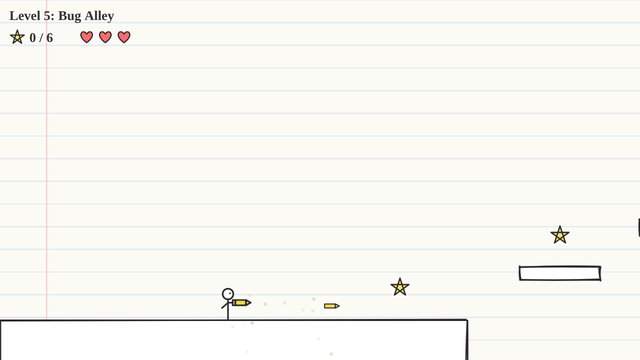
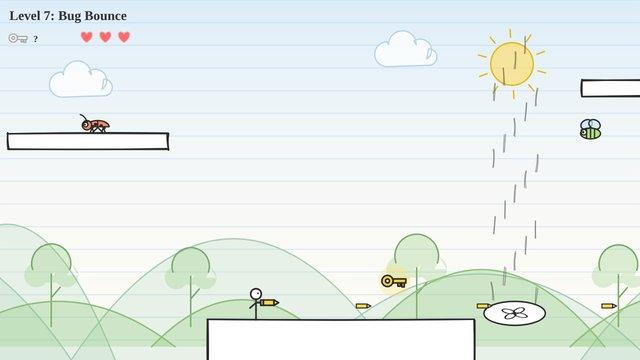
Paper Adventure: backgrounds and a champion trophy
Colored-pencil scenery behind every level: day (1-10), sunset (11-20)
and night (21-30); hills and trees on normal levels, gears, light bulbs
and ? + doodles on brain levels, castle towers on boss levels. Beating
level 30 awards an animated PAPER CHAMPION trophy (paperAdventureTrophy)
that stays on the title screen. New lobby picture. Felix's request.

Claude-Session: https://claude.ai/code/session_012zsgkSRcXWt4JzXvCbtwCW

diff --git a/paper-adventure/index.html b/paper-adventure/index.html
@@ -28,6 +28,9 @@ canvas{display:block;position:fixed;inset:0;width:100%;height:100%}
 #ov{position:fixed;inset:0;display:flex;align-items:flex-start;justify-content:center;z-index:5;background:rgba(251,250,245,.82);overflow:auto}
 #ov .card{background:#fff;border:3px solid #333;border-radius:18px 14px 20px 12px;padding:20px 26px;text-align:center;max-width:86vw;box-shadow:4px 5px 0 #333;margin:auto}
 #ov h1{margin:0 0 6px;font-size:28px}
+#ov canvas.trophy{position:static;inset:auto;width:min(210px,45vw,38vh);height:auto;display:block;margin:0 auto -4px}
+#ov canvas.trophy.small{width:56px;display:inline-block;vertical-align:middle;margin:0 6px 0 0}
+#ov .champ{font-weight:bold;font-size:17px;margin:2px 0 4px}
 #ov p{margin:6px 0 12px;font-size:17px;line-height:1.35}
 #ov button{font:inherit;font-size:22px;padding:10px 30px;border:3px solid #333;border-radius:14px 10px 16px 9px;background:#ffd646;cursor:pointer;box-shadow:3px 3px 0 #333}
 #ov .lv{display:flex;flex-wrap:wrap;gap:8px;justify-content:center;margin:4px 0 12px}
@@ -388,17 +391,42 @@ function showOv(title,html,btn,action){ovh.classList.add('hide');ovt.textContent
 ovb.addEventListener('click',()=>{initAudio();ov.classList.add('hide');const a=ovAction;ovAction=null;if(a)a();});
 ovp.addEventListener('click',e=>{const b=e.target.closest('button[data-l]');if(!b||b.disabled)return;ov.classList.add('hide');ovAction=null;startLevel(+b.dataset.l);});
 function levelButtons(){let h='<div class="lv">';LEVELS.forEach((l,i)=>{h+='<button data-l="'+i+'" class="'+(l.boss?'boss':l.brain?'brain':l.weapon?'bug':'')+'"'+((i>maxLevel||!(i===0||(i+1)%5===0||i===cur))?' disabled':'')+'>'+(i+1)+(l.boss?'<br>👑':'')+'</button>';});return h+'</div>';}
+/* ---------- the champion trophy ---------- */
+function drawTrophy(c,f,label){const x=c.getContext('2d'),w=c.width,h=c.height,s=w/220,cx=110,bob=Math.sin(f/14)*4,fill='#f4c430',dark='#c99a06',ink='#2b2b2b';
+  x.setTransform(1,0,0,1,0,0);x.clearRect(0,0,w,h);x.scale(s,s);x.lineCap='round';x.lineJoin='round';
+  const star=(sx,sy,r)=>{x.beginPath();for(let i=0;i<5;i++){const a=-Math.PI/2+i*4*Math.PI/5;i?x.lineTo(sx+Math.cos(a)*r,sy+Math.sin(a)*r):x.moveTo(sx+Math.cos(a)*r,sy+Math.sin(a)*r);}x.closePath();};
+  x.save();x.translate(cx,90+bob);x.rotate(f/120);x.strokeStyle=fill;x.globalAlpha=.55;x.lineWidth=3;
+  for(let i=0;i<12;i++){const a=i*Math.PI/6;x.beginPath();x.moveTo(Math.cos(a)*62,Math.sin(a)*62);x.lineTo(Math.cos(a)*84,Math.sin(a)*84);x.stroke();}x.restore();
+  x.save();x.translate(0,bob);
+  x.lineWidth=7;x.strokeStyle=ink;[-1,1].forEach(d=>{x.beginPath();x.ellipse(cx+d*50,62,16,20,0,0,7);x.stroke();});x.lineWidth=3.5;x.strokeStyle=fill;[-1,1].forEach(d=>{x.beginPath();x.ellipse(cx+d*50,62,16,20,0,0,7);x.stroke();});
+  x.lineWidth=3;x.strokeStyle=ink;x.fillStyle=fill;x.beginPath();x.moveTo(cx-48,34);x.lineTo(cx+48,34);x.quadraticCurveTo(cx+46,104,cx+8,116);x.lineTo(cx-8,116);x.quadraticCurveTo(cx-46,104,cx-48,34);x.closePath();x.fill();
+  x.save();x.clip();x.strokeStyle=dark;x.lineWidth=1.5;for(let k=0;k<10;k++){x.beginPath();x.moveTo(cx+14+k*7,40);x.lineTo(cx+14+k*7-22,116);x.stroke();}x.restore();x.stroke();
+  x.fillStyle=dark;x.beginPath();x.ellipse(cx,34,48,8,0,0,7);x.fill();x.stroke();
+  x.fillStyle='#fff';star(cx,72,17);x.fill();x.stroke();
+  x.fillStyle=fill;x.fillRect(cx-8,116,16,18);x.strokeRect(cx-8,116,16,18);
+  x.fillStyle=dark;x.fillRect(cx-30,134,60,12);x.strokeRect(cx-30,134,60,12);
+  x.fillStyle='#fff';x.fillRect(cx-46,146,92,26);x.strokeRect(cx-46,146,92,26);
+  x.font='bold 10.5px "Comic Sans MS","Chalkboard SE",cursive';x.fillStyle=ink;x.textAlign='center';x.textBaseline='middle';x.fillText(label||'PAPER CHAMPION',cx,159);
+  x.restore();
+  for(let i=0;i<6;i++){const a=i*1.05+f/40,r=78+Math.sin(f/9+i)*10,sx=cx+Math.cos(a)*r,sy=90+Math.sin(a)*r*.75,k=(Math.sin(f/6+i*2)+1)/2;
+    x.fillStyle=i%2?fill:'#fff';x.strokeStyle=ink;x.lineWidth=1.5;star(sx,sy,4+k*5);x.fill();x.stroke();}}
+function animTrophy(){const c=document.querySelector('#ovp canvas.trophy');if(!c)return;let f=0;
+  const loop=()=>{if(!c.isConnected||ov.classList.contains('hide'))return;drawTrophy(c,f++);requestAnimationFrame(loop);};loop();}
+function trophyCount(){try{return parseInt(localStorage.getItem('paperAdventureTrophy')||'0',10)||0;}catch(e){return 0;}}
 function menu(){if(curUnset){cur=checkpointOf(maxLevel);curUnset=false;}state='title';if(!lv)load(0);setSong('main');
   const portrait=innerHeight>innerWidth;
-  showOv("Felix's Paper Adventure","<p>Levels drawn by Felix! Find the key 🔑 to open the door.<br>🧠 Blue = brain puzzles (stuck? press ↺) · 🐞 Pink = bugs + pencil blaster ✏ · 👑 Boss every 5 levels<br>❤❤❤ Falling or a bug hit costs a heart. Hearts never refill. Lose them all: back to the last 🚩 checkpoint.</p>"+levelButtons()+
+  const tc=trophyCount();
+  showOv("Felix's Paper Adventure",(tc?'<div class="champ"><canvas class="trophy small" width="220" height="180"></canvas>Paper Champion!'+(tc>1?' ×'+tc:'')+'</div>':'')+"<p>Levels drawn by Felix! Find the key 🔑 to open the door.<br>🧠 Blue = brain puzzles (stuck? press ↺) · 🐞 Pink = bugs + pencil blaster ✏ · 👑 Boss every 5 levels<br>❤❤❤ Falling or a bug hit costs a heart. Hearts never refill. Lose them all: back to the last 🚩 checkpoint.</p>"+levelButtons()+
    (portrait?"<p><small>Tip: turn your phone sideways for a bigger view.</small></p>":"<p><small>Keys: ← → move · Space jump · X fire</small></p>"),
-   cur>0?"Continue: Level "+(cur+1):"Play",()=>startLevel(cur));if(ON_SITE)ovh.classList.remove('hide');}
+   cur>0?"Continue: Level "+(cur+1):"Play",()=>startLevel(cur));if(ON_SITE)ovh.classList.remove('hide');if(tc)animTrophy();}
 function countStars(){return stars.filter(s=>s.got).length;}
 function winLevel(){state='won';setSong(null);sfx.win();
   const nx=LV+1,cpNext=nx<LEVELS.length&&(nx+1)%5===0;
   const m="<p>"+(goal.kind==='cage'?"You unlocked the cage and saved your friend! 🔑":"You unlocked the door and escaped! 🔑")+"<br>Hearts: "+'❤'.repeat(Math.max(0,hearts))+'🤍'.repeat(Math.max(0,3-hearts))+(hearts<3?"<br>Hearts don't refill, so be careful!":"")+(cpNext?"<br>Next up: a 🚩 checkpoint!":"")+"</p>";
   if(LV<LEVELS.length-1){saveMax(LV+1);showOv(lv.boss?"You beat the "+lv.boss.name+"! 👑":"Level "+(LV+1)+" complete!",m,"Next level ▶",()=>startLevel(LV+1));}
-  else showOv("You beat the Bug King! 🎉",m+"<p>You finished all "+LEVELS.length+" levels and beat every boss!</p>","Back to levels",()=>menu());
+  else{let wins=1;try{wins=(parseInt(localStorage.getItem('paperAdventureTrophy')||'0',10)||0)+1;localStorage.setItem('paperAdventureTrophy',String(wins));}catch(e){}
+    showOv("YOU WIN! 🏆",'<canvas class="trophy" width="440" height="360"></canvas><p>You beat the Bug King and finished all '+LEVELS.length+' levels!<br>You are the <b>PAPER CHAMPION</b>!'+(wins>1?'<br>Trophy won '+wins+' times!':'')+'</p>',"Back to levels",()=>menu());
+    animTrophy();}
 }
 function loseLevel(){state='lost';setSong(null);sfx.fall();
   const cp=checkpointOf(LV);
@@ -656,6 +684,71 @@ function drawBug(m){
 function eyes(x,y,dir,r){ctx.fillStyle='#fff';ctx.beginPath();ctx.arc(x,y,r+1.2,0,7);ctx.fill();ctx.stroke();ctx.fillStyle='#2b2b2b';ctx.beginPath();ctx.arc(x+dir*1,y,r*0.6,0,7);ctx.fill();
   ctx.beginPath();ctx.moveTo(x-dir*r*1.4,y-r*2);ctx.lineTo(x+dir*r*1.4,y-r*1.1);ctx.stroke();} // angry brow
 
+
+/* ---------- backgrounds: colored-pencil scenery behind each level ----------
+ levels 1-10 daytime, 11-20 sunset, 21-30 night.
+ normal levels: hills + trees · brain levels: gears, light bulbs, ? and + doodles · boss levels: castle towers
+------------------------------------------------------------------------------- */
+let BG=null;
+const SKY=[{tint:'rgba(170,215,255,.38)',hill:'rgba(140,200,120,.28)',hillS:'#8fbf7a',far:'rgba(150,200,170,.18)',farS:'#a9cdb5',motif:'#7aa86a',cloud:'#b9d4ea'},
+           {tint:'rgba(255,185,130,.38)',hill:'rgba(230,150,90,.25)',hillS:'#d9935a',far:'rgba(240,170,150,.2)',farS:'#e4a98f',motif:'#c47c4f',cloud:'#f2c3a3'},
+           {tint:'rgba(55,75,150,.30)',hill:'rgba(90,110,170,.28)',hillS:'#6c7fb8',far:'rgba(110,120,180,.2)',farS:'#8a95c6',motif:'#5f6fa8',cloud:'#9aa6d4'}];
+function buildBG(){
+  const n=LV+1,R=rng(n*131+7),sec=n<=10?0:n<=20?1:2,kind=lv.boss?'boss':lv.brain?'brain':'normal';
+  const B={sec,kind,far:[],hills:[],motifs:[],clouds:[],stars:[]};
+  const span=f=>lv.width*f+2400;
+  for(let x=-300;x<span(0.15);x+=200+R()*220)B.far.push({x,w:260+R()*260,h:90+R()*90});
+  for(let x=-300;x<span(0.3);x+=170+R()*200)B.hills.push({x,w:200+R()*220,h:50+R()*70});
+  for(let x=-200;x<span(0.45);x+=kind==='boss'?420+R()*300:150+R()*190)B.motifs.push({x,t:R(),s:0.8+R()*0.5,y:R()});
+  for(let x=-200;x<span(0.08);x+=260+R()*260)B.clouds.push({x,y:60+R()*120,s:0.7+R()*0.6});
+  for(let i=0;i<70;i++)B.stars.push({x:R(),y:R()*0.55,s:1+R()*2.2,tw:R()*6});
+  BG=B;
+}
+function bgLayer(arr,f,cb){const ox=cam.x*f;arr.forEach(it=>{const sx=it.x-ox;if(sx>-400&&sx<viewW+400)cb(it,sx);});}
+function drawBG(){
+  if(!BG||BG.lv!==lv){buildBG();BG.lv=lv;}
+  const C=SKY[BG.sec],gy=480-cam.y; // screen y of the ground line
+  const g=ctx.createLinearGradient(0,0,0,gy);g.addColorStop(0,C.tint);g.addColorStop(1,'rgba(255,255,255,0)');ctx.fillStyle=g;ctx.fillRect(0,0,viewW,gy);
+  ctx.save();ctx.lineCap='round';ctx.lineJoin='round';
+  // sun / moon / stars
+  if(BG.sec===2){BG.stars.forEach(st=>{const a=0.35+0.35*Math.sin(t*0.05+st.tw);ctx.fillStyle='rgba(255,240,170,'+a+')';ctx.beginPath();ctx.arc(st.x*viewW,st.y*gy,st.s,0,7);ctx.fill();});
+    ctx.fillStyle='#fff6cf';ctx.strokeStyle='#d8c27a';ctx.lineWidth=2;ctx.beginPath();ctx.arc(viewW*0.78,gy*0.22,30,0,7);ctx.fill();ctx.stroke();
+    ctx.fillStyle='rgba(220,200,130,.5)';[[-8,-6,6],[9,6,4],[-4,12,3]].forEach(c=>{ctx.beginPath();ctx.arc(viewW*0.78+c[0],gy*0.22+c[1],c[2],0,7);ctx.fill();});}
+  else{const sx=viewW*0.8,sy=BG.sec===1?gy*0.55:gy*0.2,r=BG.sec===1?44:32;ctx.fillStyle=BG.sec===1?'rgba(255,150,80,.55)':'rgba(255,220,90,.6)';ctx.strokeStyle=BG.sec===1?'#e8894a':'#e6b800';ctx.lineWidth=2;
+    ctx.beginPath();ctx.arc(sx,sy,r,0,7);ctx.fill();ctx.stroke();ctx.lineWidth=2;for(let i=0;i<10;i++){const a=i*Math.PI/5+t*0.004;ctx.beginPath();ctx.moveTo(sx+Math.cos(a)*(r+8),sy+Math.sin(a)*(r+8));ctx.lineTo(sx+Math.cos(a)*(r+20),sy+Math.sin(a)*(r+20));ctx.stroke();}}
+  // clouds
+  if(BG.sec<2)bgLayer(BG.clouds,0.08,(c,sx)=>{const y=c.y-cam.y*0.3,s=c.s;ctx.fillStyle='rgba(255,255,255,.75)';ctx.strokeStyle=C.cloud;ctx.lineWidth=2;
+    ctx.beginPath();ctx.arc(sx,y,18*s,Math.PI*0.5,Math.PI*1.5);ctx.arc(sx+22*s,y-14*s,20*s,Math.PI,0);ctx.arc(sx+48*s,y-6*s,16*s,Math.PI*1.3,Math.PI*0.3);ctx.arc(sx+60*s,y+4*s,12*s,Math.PI*1.5,Math.PI*0.5);ctx.closePath();ctx.fill();ctx.stroke();});
+  // far hills
+  ctx.lineWidth=2;
+  bgLayer(BG.far,0.15,(h,sx)=>{ctx.fillStyle=C.far;ctx.strokeStyle=C.farS;ctx.beginPath();ctx.moveTo(sx,gy+60);ctx.quadraticCurveTo(sx+h.w/2,gy-h.h*2.2,sx+h.w,gy+60);ctx.fill();ctx.stroke();});
+  // motifs
+  bgLayer(BG.motifs,0.45,(m,sx)=>{ctx.strokeStyle=C.motif;ctx.fillStyle=C.hill;ctx.lineWidth=2.2;const s=m.s;
+    if(BG.kind==='normal'){ // tree
+      const by=gy+10,th=70*s;ctx.beginPath();ctx.moveTo(sx,by);ctx.lineTo(sx,by-th);ctx.moveTo(sx,by-th*0.55);ctx.lineTo(sx+12*s,by-th*0.75);ctx.stroke();
+      ctx.beginPath();ctx.arc(sx,by-th-14*s,26*s,0,7);ctx.arc(sx-20*s,by-th+2,16*s,0,7);ctx.arc(sx+20*s,by-th+2,16*s,0,7);ctx.fill();
+      ctx.beginPath();ctx.arc(sx,by-th-14*s,26*s,Math.PI*0.9,Math.PI*2.1);ctx.stroke();}
+    else if(BG.kind==='brain'){const y=gy-90-m.y*200;
+      if(m.t<0.4){ // gear
+        const r=20*s,rot=t*0.01*(m.t<0.2?1:-1);ctx.save();ctx.translate(sx,y);ctx.rotate(rot);ctx.beginPath();
+        for(let i=0;i<16;i++){const a=i*Math.PI/8,rr=i%2?r:r+7*s;ctx.lineTo(Math.cos(a)*rr,Math.sin(a)*rr);}ctx.closePath();ctx.fill();ctx.stroke();
+        ctx.beginPath();ctx.arc(0,0,6*s,0,7);ctx.stroke();ctx.restore();}
+      else if(m.t<0.65){ // light bulb
+        ctx.fillStyle='rgba(255,230,120,.35)';ctx.beginPath();ctx.arc(sx,y,16*s,Math.PI*0.8,Math.PI*2.2);ctx.lineTo(sx+6*s,y+20*s);ctx.lineTo(sx-6*s,y+20*s);ctx.closePath();ctx.fill();ctx.stroke();
+        ctx.beginPath();ctx.moveTo(sx-6*s,y+24*s);ctx.lineTo(sx+6*s,y+24*s);ctx.moveTo(sx-4*s,y+28*s);ctx.lineTo(sx+4*s,y+28*s);ctx.stroke();
+        for(let i=0;i<5;i++){const a=-Math.PI*0.9+i*Math.PI*0.2;ctx.beginPath();ctx.moveTo(sx+Math.cos(a)*24*s,y+Math.sin(a)*24*s);ctx.lineTo(sx+Math.cos(a)*32*s,y+Math.sin(a)*32*s);ctx.stroke();}}
+      else{ctx.fillStyle=C.motif;ctx.font='bold '+Math.round(34*s)+'px "Comic Sans MS","Chalkboard SE",cursive';ctx.globalAlpha=.45;ctx.fillText(['?','+','=','?','×','!'][Math.floor(m.t*60)%6],sx,y);ctx.globalAlpha=1;}}
+    else{ // boss castle tower
+      const w=70*s,h=170*s+m.y*60,bx=sx,by=gy+10;ctx.fillStyle='rgba(110,80,140,.22)';ctx.strokeStyle='#8e74a8';
+      ctx.beginPath();ctx.moveTo(bx,by);ctx.lineTo(bx,by-h);for(let i=0;i<4;i++){const cx=bx+i*w/4;ctx.lineTo(cx,by-h-12);ctx.lineTo(cx+w/8,by-h-12);ctx.lineTo(cx+w/8,by-h);ctx.lineTo(cx+w/4,by-h);}
+      ctx.lineTo(bx+w,by);ctx.closePath();ctx.fill();ctx.stroke();
+      ctx.fillStyle='rgba(255,220,120,.5)';ctx.fillRect(bx+w/2-7,by-h+30,14,20);ctx.strokeRect(bx+w/2-7,by-h+30,14,20);
+      ctx.beginPath();ctx.moveTo(bx+w/2,by-h-12);ctx.lineTo(bx+w/2,by-h-40);ctx.stroke();ctx.fillStyle='#d36e70';ctx.beginPath();ctx.moveTo(bx+w/2,by-h-40);ctx.lineTo(bx+w/2+18,by-h-34+Math.sin(t*0.15)*2);ctx.lineTo(bx+w/2,by-h-28);ctx.fill();ctx.stroke();}});
+  // near hills
+  bgLayer(BG.hills,0.3,(h,sx)=>{ctx.fillStyle=C.hill;ctx.strokeStyle=C.hillS;ctx.beginPath();ctx.moveTo(sx,gy+40);ctx.quadraticCurveTo(sx+h.w/2,gy-h.h*1.6,sx+h.w,gy+40);ctx.fill();ctx.stroke();});
+  ctx.restore();
+}
+
 /* ---------- render ---------- */
 function render(){
   ctx.setTransform(DPR*scale,0,0,DPR*scale,0,0);
@@ -664,6 +757,7 @@ function render(){
   ctx.fillStyle='#fbfaf5';ctx.fillRect(0,0,viewW,viewH);
   ctx.strokeStyle='#d6e4f2';ctx.lineWidth=1.2;
   const off=(-cam.y)%34;for(let y=off;y<viewH;y+=34){ctx.beginPath();ctx.moveTo(0,y);ctx.lineTo(viewW,y);ctx.stroke();}
+  drawBG();
   ctx.strokeStyle='#f0b8b8';ctx.beginPath();const mx=70-cam.x*0.3;ctx.moveTo(mx,0);ctx.lineTo(mx,viewH);ctx.stroke();
   ctx.save();ctx.translate(-cam.x,-cam.y);ctx.lineCap='round';ctx.lineJoin='round';
   // fans
